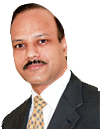
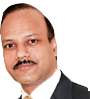
about block fix

diff --git a/css/style-landing-page.min.css b/css/style-landing-page.min.css
@@ -1,1 +1,1 @@
-header .logo{margin-top:15px}#landing-page{margin-top:20px}.jumbotron{position:relative;padding-left:100px;padding-right:100px;padding-top:150px;height:600px;background:#f0d30b;background:linear-gradient(to bottom,#f0d30b 0,#FFEDB2 51%,#f0d30b 100%);filter:progid:DXImageTransform.Microsoft.gradient( startColorstr='#f0d30b', endColorstr='#f0d30b', GradientType=0 )}.jumbotron h1{font-size:48px;font-weight:700;text-transform:capitalize}.jumbotron .banner-text ul{margin-top:24px}.jumbotron .banner-text ul li{font-size:22px;margin-bottom:3px}section{padding-left:15px;padding-right:15px;margin-bottom:60px}.about-section{margin-top:70px;padding:0 200px;text-align:left;margin-bottom:100px}.about-section h3{text-align:center;font-size:26px;font-weight:700;margin-bottom:10px}.about-section p{font-size:20px;line-height:1.5;-moz-text-align-last:center;text-align-last:center}.lp__lear-more{border-bottom:1px solid #e2e2e2}.lp__lear-more .active-tab{color:#d9d9d9}.lp__lear-more .carousel-yello{color:#ffb400}.lp__lear-more .tab-pane{padding-bottom:20px;padding-top:40px}.lp__lear-more ul.nav-tabs{text-align:center;margin-left:-15px;margin-right:-15px}.lp__lear-more ul.nav-tabs li{float:none;display:inline-block;width:30%}.lp__lear-more ul.nav-tabs li.active a{background:#f4f4f4;color:#000}.lp__lear-more ul.nav-tabs li a{background:#d9d9d9;color:#000;border-radius:10px 10px 0 0;padding:10px 15px;font-weight:700}.lp__lear-more .tab-content{background:#f4f4f4;padding:0 200px;margin-left:-15px;margin-right:-15px}.lp__lear-more .tab-content p{font-size:18px;line-height:1.4}.lp__lear-more .tab-content ul{margin-left:20px}.lp__lear-more_anchor{max-width:176px;display:block;position:relative;background:#fcfeff;background:linear-gradient(to bottom,#fcfeff 0,#eee 46%);filter:progid:DXImageTransform.Microsoft.gradient( startColorstr='#fcfeff', endColorstr='#eeeeee', GradientType=0 );border:1px solid #ccc;text-decoration:none;margin-bottom:16px;padding:6px}.lp__lear-more_anchor p.heading{font-family:'Passion One',cursive;color:#369;line-height:1;font-size:16px;font-size:30px;text-transform:uppercase}.lp__lear-more_anchor p.small{color:#565656;font-size:14px;line-height:1;max-width:100px}.lp__lear-more_anchor:hover{text-decoration:none}.lp__lear-more_anchor img{position:absolute;right:10px;bottom:10px;display:block;font-size:14px;width:40px;height:auto}.lp__testimonial{margin:0 auto 80px;padding:20px 200px}.lp__testimonial .lp__testimonial__block{padding:24px 0;border-bottom:2px solid #ededed}.lp__testimonial .lp__testimonial__block p{color:#979191}.lp__testimonial .lp__testimonial__block img{display:inline-block;margin-right:10px;position:relative;width:100px;height:auto}.lp__testimonial .lp__testimonial__block .msg{font-style:italic;line-height:1;font-size:16px;margin-top:24px}.lp__testimonial .lp__testimonial__block p.customer{font-size:14px}.lp__testimonial .lp__testimonial__block span.black{color:#000}.lp__testimonial .lp__testimonial__block span.fa{display:block;background:#ddd;width:38px;height:38px;position:absolute;right:0;bottom:0;padding:14px;font-size:12px;color:#fff}.lp__before-and-after{position:relative;text-align:center}.lp__before-and-after h3{margin-bottom:30px}.lp__before-and-after .inner{padding:40px 200px;border-top:1px solid #ddd;border-bottom:1px solid #ddd;margin-right:-15px;margin-left:-15px}.lp__before-and-after .btn-top{position:absolute;right:50%;top:-20px;left:42%;min-width:200px;border-radius:0}.lp__before-and-after .btn-div .btn{margin-bottom:-100px;border:6px solid #ededed;border-radius:4px}.lp__before-and-after ul li img{width:140px;height:auto}.lp__blog{padding:10px 200px}.lp__blog h4{color:#003e78;font-size:22px}.lp__blog ul li{padding-bottom:16px;border-bottom:1px solid #d1d1d1;margin-bottom:16px;max-width:94%}.lp__blog ul li a{color:#262626;font-size:16px;font-weight:700;text-decoration:underline}.lp__blog .dr-msg{background:#eef7ff;border:1px solid #0163be;padding:20px;position:relative;height:400px}.lp__blog .dr-msg .title{display:inline-block}.lp__blog .dr-msg .title h5{font-size:18px;font-weight:700;margin:0}.lp__blog .dr-msg .title h4{color:#000;font-weight:700}.lp__blog .dr-msg p{margin:8px 0 0;font-size:14px;line-height:1.5}.lp__blog .dr-msg img{width:62px;height:auto;display:inline-block;vertical-align:text-bottom;margin-right:10px}.lp__blog .m-b-30{margin-bottom:20px}.lp__faqs{background:#fefbf3;border-bottom:1px solid #c9c9c9;border-top:1px solid #c9c9c9;padding:50px 200px}.lp__faqs .lp__faqs_heading{position:relative;background:#fdc92b;border-radius:4px;padding:14px 20px;margin-bottom:50px}.lp__faqs .lp__faqs_heading p{margin-bottom:0;font-weight:700}.lp__faqs .lp__faqs_heading img{position:absolute;right:30px;top:-20px;width:80px;height:auto}.lp__faqs .panel-default>.panel-heading{background-color:#fff}.lp__faqs .panel-group .panel{margin-bottom:14px}.lp__faqs .panel-heading a{position:relative;display:inline-block;width:100%}.lp__faqs .panel-heading a:after{font-family:FontAwesome;content:"\f147";position:absolute;right:15px;font-size:14px;font-weight:300;top:50%;line-height:1;margin-top:-7px}.lp__faqs .panel-heading a.collapsed:after{content:"\f196"}.bold{font-weight:700}.lp__appointmetn-bottom .innner{padding:20px 40px;border:6px solid #ffbf87;border-radius:6px}.lp__appointmetn-bottom .innner .col-md-5,.lp__appointmetn-bottom .innner .col-md-7{padding-left:30px;padding-right:30px}.lp__appointmetn-bottom .innner .col-md-5{border-right:2px solid #ddd;padding-left:0;padding-right:10px}.lp__appointmetn-bottom .treatment-block{border:1px solid #ffbf87;border-radius:4px;padding:10px 20px;margin-bottom:10px}.lp__appointmetn-bottom .treatment-block h4{font-weight:700;margin-bottom:4px}.lp__appointmetn-bottom .treatment-block i{display:inline-block;font-size:36px;color:#ffbf87;margin-top:12px;float:right}.lp__appointmetn-bottom p.footer-text{margin-top:20px;color:#f70;padding:10px 15px}.lp__appointmetn-bottom p.footer-text i{margin-right:10px}.lp__appointmetn-bottom .orange{color:#ffbf87}#landing-form{position:absolute;top:-100px;left:25%;z-index:9999;max-width:500px;background:#fff;padding:6px 20px 20px;border:6px solid rgba(173,90,10,.8);border-radius:6px;margin-right:auto;margin-left:auto}#landing-form .gform_wrapper .gfield_required{color:#790000;margin-left:4px;display:none}#landing-form .gform_wrapper .gform_heading{width:98%;margin-bottom:0}#landing-form .gform_wrapper li.gfield.gfield_error,#landing-form .gform_wrapper li.gfield.gfield_error.gfield_contains_required.gfield_creditcard_warning{background-color:#fff;margin-bottom:.375em!important;padding:0;border-top:0 solid #C89797;border-bottom:0 solid #C89797}#landing-form .gform_wrapper .datepicker{width:100%!important}#landing-form .gform_wrapper div.validation_error{color:#790000;font-size:1em;font-weight:400;margin-bottom:0;border-top:0 solid #790000;border-bottom:0 solid #790000;padding:0;clear:both;width:97.5%}#landing-form .gform_wrapper .gform_footer input.button,#landing-form .gform_wrapper .gform_footer input[type=submit]{color:#fff;background-color:#fa8f3e;display:inline-block;padding:6px 12px;margin-bottom:0;font-size:14px;font-weight:400;line-height:1.42857143;text-align:center;white-space:nowrap;vertical-align:middle;-ms-touch-action:manipulation;touch-action:manipulation;cursor:pointer;-webkit-user-select:none;-moz-user-select:none;-ms-user-select:none;user-select:none;background-image:none;border:1px solid transparent;border-radius:4px}#landing-form .gform_wrapper .gfield_checkbox li,#landing-form .gform_wrapper .gfield_radio li{position:relative;margin:0}#landing-form .gform_wrapper h3.gform_title{letter-spacing:normal!important;margin:0 0 20px}#landing-form .gform_wrapper label.gfield_label+div.ginput_container{margin-top:0}#landing-form .gform_wrapper label{display:none!important;font-size:16px}#landing-form .gform_wrapper .gfield_checkbox label{display:block!important}#landing-form .ginput_container input{margin-bottom:12px;padding-top:10px;padding-left:6px}#landing-form .gform_wrapper .gform_footer{padding:0;margin:1em 0 0;clear:both}#landing-form .gform_wrapper li.gfield.gfield_error.gfield_contains_required div.gfield_description{max-width:100%;padding-right:6px!important;margin-top:-22px}#landing-form .gform_confirmation_message_1 .gform_confirmation_message{margin-bottom:10px}#landing-form h2{text-align:center;margin-bottom:20px}#landing-form .form-control{border-radius:0;margin-bottom:20px;height:40px}#landing-form .btn{margin-bottom:10px;text-transform:uppercase;padding:8px 12px;font-size:22px}#landing-form .form-group input,#landing-form input{width:100%}#landing-form ::-webkit-input-placeholder{color:#000;font-size:.9em}#landing-form :-moz-placeholder{color:#000;font-size:.9em;opacity:1}#landing-form ::-moz-placeholder{color:#000;font-size:.9em;opacity:1}#landing-form :-ms-input-placeholder{color:#000;font-size:.9em}#landing-form :placeholder-shown{color:#000;font-size:.9em}#landing-form .btn-sample,#landing-form .btn-sample.active,#landing-form .btn-sample:active,#landing-form .btn-sample:focus,#landing-form .btn-sample:hover{color:#fff;background-color:#fa8f3e;border-color:#793c1a}#landing-form-2{max-width:500px;padding:0 15px;background:#fff;margin-right:auto;margin-left:auto}#landing-form-2 .gform_wrapper .gfield_required{color:#790000;margin-left:4px;display:none}#landing-form-2 .gform_wrapper .gform_heading{width:98%;margin-bottom:0}#landing-form-2 .gform_wrapper li.gfield.gfield_error,#landing-form-2 .gform_wrapper li.gfield.gfield_error.gfield_contains_required.gfield_creditcard_warning{background-color:#fff;margin-bottom:.375em!important;padding:0;border-top:0 solid #C89797;border-bottom:0 solid #C89797}#landing-form-2 .gform_wrapper .datepicker{width:100%!important}#landing-form-2 .gform_wrapper div.validation_error{color:#790000;font-size:1em;font-weight:400;margin-bottom:0;border-top:0 solid #790000;border-bottom:0 solid #790000;padding:0;clear:both;width:97.5%}#landing-form-2 .gform_wrapper .gform_footer input.button,#landing-form-2 .gform_wrapper .gform_footer input[type=submit]{color:#fff;background-color:#fa8f3e;display:inline-block;padding:6px 12px;margin-bottom:0;font-size:14px;font-weight:400;line-height:1.42857143;text-align:center;white-space:nowrap;vertical-align:middle;-ms-touch-action:manipulation;touch-action:manipulation;cursor:pointer;-webkit-user-select:none;-moz-user-select:none;-ms-user-select:none;user-select:none;background-image:none;border:1px solid transparent;border-radius:4px}#landing-form-2 .gform_wrapper .gfield_checkbox li,#landing-form-2 .gform_wrapper .gfield_radio li{position:relative;margin:0}#landing-form-2 .gform_wrapper h3.gform_title{letter-spacing:normal!important;margin:0 0 20px}#landing-form-2 .gform_wrapper label.gfield_label+div.ginput_container{margin-top:0}#landing-form-2 .gform_wrapper label{display:none!important;font-size:18px}#landing-form-2 .gform_wrapper .gfield_checkbox label{display:block!important}#landing-form-2 .ginput_container input{margin-bottom:16px}#landing-form-2 .gform_wrapper .gform_footer{padding:0;margin:1em 0 0;clear:both}#landing-form-2 .gform_wrapper li.gfield.gfield_error.gfield_contains_required div.gfield_description{max-width:100%;padding-right:6px!important;margin-top:-22px}#landing-form-2 .gform_confirmation_message_1 .gform_confirmation_message{margin-bottom:10px}#landing-form-2 h2{text-align:center;margin-bottom:20px}#landing-form-2 .form-control{border-radius:0;margin-bottom:20px;height:40px}#landing-form-2 .btn{margin-bottom:10px;text-transform:uppercase;padding:8px 12px;font-size:22px}#demo .item,#demo-2 .item{margin:3px}#landing-form-2 .form-group input,#landing-form-2 input{width:100%}#demo .item img,#demo-2 .item img{width:100px;height:129px;display:block}#landing-form-2 ::-webkit-input-placeholder{color:#000;font-size:.9em}#landing-form-2 :-moz-placeholder{color:#000;font-size:.9em;opacity:1}#landing-form-2 ::-moz-placeholder{color:#000;font-size:.9em;opacity:1}#landing-form-2 :-ms-input-placeholder{color:#000;font-size:.9em}#landing-form-2 :placeholder-shown{color:#000;font-size:.9em}#landing-form-2 .btn-sample,#landing-form-2 .btn-sample.active,#landing-form-2 .btn-sample:active,#landing-form-2 .btn-sample:focus,#landing-form-2 .btn-sample:hover{color:#fff;background-color:#fa8f3e;border-color:#793c1a}#carousel-1{position:relative}.owl-carousel .owl-wrapper-outer{overflow:hidden;position:relative;width:100%;border:2px solid #FFB200;padding:12px;background:#fff;margin-bottom:30px;margin-top:30px}.carousel-1 .indicator-next,.carousel-1 .indicator-pre{display:block;cursor:pointer;width:45px;height:45px;position:absolute}.indicator-next{right:-11px;top:41%}.indicator-pre{left:-11px;top:41%}.btn-orange-top{color:#fff;background-color:#ffae00;border-color:#ffae00}.btn-orange-top.active,.btn-orange-top:active,.btn-orange-top:focus,.btn-orange-top:hover{color:#fff;background-color:#E69500;border-color:#E69500}.btn-orange-btm{color:#fff;background-color:#ea641f;border-color:#ea641f}.btn-orange-btm.active,.btn-orange-btm:active,.btn-orange-btm:focus,.btn-orange-btm:hover{color:#fff;background-color:#D14B06;border-color:#D14B06}.btn-orange-2{color:#fff;background-color:#a26565;border-color:#a26565}.btn-orange-2.active,.btn-orange-2:active,.btn-orange-2:focus,.btn-orange-2:hover{color:#fff;background-color:#894C4C;border-color:#894C4C}@media (max-width:767px){.lp__before-and-after .inner{padding:40px 100px}.lp__blog{padding:10px 100px}.lp__faqs{padding:50px 100px}.lp__lear-more .tab-content{padding:0 100px}.lp__appointmetn-bottom{padding:10px 100px}.lp__lear-more .tab-content ul{float:none}.lp__lear-more .tab-content ul li a{margin-right:6px;float:left}.lp__testimonial{padding:20px 100px}.about-section{padding:0 100px;margin-bottom:50px;margin-top:330px}section{margin-bottom:40px}.jumbotron{padding-left:50px;padding-right:50px;padding-top:36px}#landing-form{top:10px}}@media (min-width:768px) and (max-width:991px){.lp__before-and-after .inner{padding:40px 100px}.lp__blog{padding:10px 100px}.lp__faqs{padding:50px 100px}.lp__lear-more .tab-content{padding:0 100px}.lp__testimonial{padding:20px 100px}.lp__appointmetn-bottom{padding:10px 100px}.about-section{padding:0 100px;margin-bottom:50px}.jumbotron{position:relative;padding-left:50px;padding-right:50px;padding-top:100px}}@media (min-width:992px) and (max-width:1199px){.lp__testimonial{padding:20px 100px}.lp__appointmetn-bottom{padding:10px 100px}#landing-form{left:10%}}.visible-print{display:none!important}@media (min-width:1200px){.lp__appointmetn-bottom{padding:10px 200px}#landing-form{min-width:462px}.navbar-default .navbar-nav>li>a{padding:17px 21px}}@media (min-width:768px){.navbar-nav{float:right}}.navbar{margin-top:64px;width:94%}.navbar-collapse{padding-right:0;padding-left:0}.navbar-default .navbar-nav>li>a{font-size:16px;border-right:0;padding:17px 13px}.navbar-default{background:0 0;border:0;margin-left:auto}.navbar-default .navbar-nav>li:nth-child(1){border-left:0}header{padding-top:0}.m-b-40{margin-bottom:40px!important}
+header .logo{margin-top:15px}#landing-page{margin-top:20px}.jumbotron{position:relative;padding-left:100px;padding-right:100px;padding-top:150px;height:600px;background:#f0d30b;background:linear-gradient(to bottom,#f0d30b 0,#FFEDB2 51%,#f0d30b 100%);filter:progid:DXImageTransform.Microsoft.gradient( startColorstr='#f0d30b', endColorstr='#f0d30b', GradientType=0 )}.jumbotron h1{font-size:48px;font-weight:700;text-transform:capitalize}.jumbotron .banner-text ul{margin-top:24px}.jumbotron .banner-text ul li{font-size:22px;margin-bottom:3px}section{padding-left:15px;padding-right:15px;margin-bottom:60px}.about-section{margin-top:70px;padding:0 200px;text-align:left;margin-bottom:100px}.about-section h3{text-align:center;font-size:26px;font-weight:700;margin-bottom:10px}.about-section p{font-size:20px;line-height:1.5;-moz-text-align-last:center;text-align-last:center}.lp__lear-more{border-bottom:1px solid #e2e2e2}.lp__lear-more .active-tab{color:#d9d9d9}.lp__lear-more .carousel-yello{color:#ffb400}.lp__lear-more .tab-pane{padding-bottom:20px;padding-top:40px}.lp__lear-more ul.nav-tabs{text-align:center;margin-left:-15px;margin-right:-15px}.lp__lear-more ul.nav-tabs li{float:none;display:inline-block;width:30%}.lp__lear-more ul.nav-tabs li.active a{background:#f4f4f4;color:#000}.lp__lear-more ul.nav-tabs li a{background:#d9d9d9;color:#000;border-radius:10px 10px 0 0;padding:10px 15px;font-weight:700}.lp__lear-more .tab-content{background:#f4f4f4;padding:0 200px;margin-left:-15px;margin-right:-15px}.lp__lear-more .tab-content p{font-size:18px;line-height:1.4}.lp__lear-more .tab-content ul{margin-left:20px}.lp__lear-more_anchor{max-width:176px;display:block;position:relative;background:#fcfeff;background:linear-gradient(to bottom,#fcfeff 0,#eee 46%);filter:progid:DXImageTransform.Microsoft.gradient( startColorstr='#fcfeff', endColorstr='#eeeeee', GradientType=0 );border:1px solid #ccc;text-decoration:none;margin-bottom:16px;padding:6px}.lp__lear-more_anchor p.heading{font-family:'Passion One',cursive;color:#369;line-height:1;font-size:16px;font-size:30px;text-transform:uppercase}.lp__lear-more_anchor p.small{color:#565656;font-size:14px;line-height:1;max-width:100px}.lp__lear-more_anchor:hover{text-decoration:none}.lp__lear-more_anchor img{position:absolute;right:10px;bottom:10px;display:block;font-size:14px;width:40px;height:auto}.lp__testimonial{margin:0 auto 80px;padding:20px 200px}.lp__testimonial .lp__testimonial__block{padding:24px 0;border-bottom:2px solid #ededed}.lp__testimonial .lp__testimonial__block p{color:#979191}.lp__testimonial .lp__testimonial__block img{display:inline-block;margin-right:10px;position:relative;width:100px;height:auto}.lp__testimonial .lp__testimonial__block .msg{font-style:italic;line-height:1;font-size:16px;margin-top:24px}.lp__testimonial .lp__testimonial__block p.customer{font-size:14px}.lp__testimonial .lp__testimonial__block span.black{color:#000}.lp__testimonial .lp__testimonial__block span.fa{display:block;background:#ddd;width:38px;height:38px;position:absolute;right:0;bottom:0;padding:14px;font-size:12px;color:#fff}.lp__before-and-after{position:relative;text-align:center}.lp__before-and-after h3{margin-bottom:30px}.lp__before-and-after .inner{padding:40px 200px;border-top:1px solid #ddd;border-bottom:1px solid #ddd;margin-right:-15px;margin-left:-15px}.lp__before-and-after .btn-top{position:absolute;right:50%;top:-20px;left:42%;min-width:200px;border-radius:0}.lp__before-and-after .btn-div .btn{margin-bottom:-100px;border:6px solid #ededed;border-radius:4px}.lp__before-and-after ul li img{width:140px;height:auto}.lp__blog{padding:10px 200px}.lp__blog h4{color:#003e78;font-size:22px}.lp__blog ul li{padding-bottom:16px;border-bottom:1px solid #d1d1d1;margin-bottom:16px;max-width:94%}.lp__blog ul li a{color:#262626;font-size:16px;font-weight:700;text-decoration:underline}.lp__blog .dr-msg{background:#eef7ff;border:1px solid #0163be;padding:20px;position:relative;height:400px}.lp__blog .dr-msg .title{display:inline-block}.lp__blog .dr-msg .title h5{font-size:18px;font-weight:700;margin:0}.lp__blog .dr-msg .title h4{color:#000;font-weight:700}.lp__blog .dr-msg p{margin:8px 0 0;font-size:14px;line-height:1.5}.lp__blog .dr-msg img{width:90px;height:auto;display:inline-block;vertical-align:text-bottom;margin-right:10px}.lp__blog .m-b-30{margin-bottom:20px}.lp__faqs{background:#fefbf3;border-bottom:1px solid #c9c9c9;border-top:1px solid #c9c9c9;padding:50px 200px}.lp__faqs .lp__faqs_heading{position:relative;background:#fdc92b;border-radius:4px;padding:14px 20px;margin-bottom:50px}.lp__faqs .lp__faqs_heading p{margin-bottom:0;font-weight:700}.lp__faqs .lp__faqs_heading img{position:absolute;right:30px;top:-20px;width:80px;height:auto}.lp__faqs .panel-default>.panel-heading{background-color:#fff}.lp__faqs .panel-group .panel{margin-bottom:14px}.lp__faqs .panel-heading a{position:relative;display:inline-block;width:100%}.lp__faqs .panel-heading a:after{font-family:FontAwesome;content:"\f147";position:absolute;right:15px;font-size:14px;font-weight:300;top:50%;line-height:1;margin-top:-7px}.lp__faqs .panel-heading a.collapsed:after{content:"\f196"}.bold{font-weight:700}.lp__appointmetn-bottom .innner{padding:20px 40px;border:6px solid #ffbf87;border-radius:6px}.lp__appointmetn-bottom .innner .col-md-5,.lp__appointmetn-bottom .innner .col-md-7{padding-left:30px;padding-right:30px}.lp__appointmetn-bottom .innner .col-md-5{border-right:2px solid #ddd;padding-left:0;padding-right:10px}.lp__appointmetn-bottom .treatment-block{border:1px solid #ffbf87;border-radius:4px;padding:10px 20px;margin-bottom:10px}.lp__appointmetn-bottom .treatment-block h4{font-weight:700;margin-bottom:4px}.lp__appointmetn-bottom .treatment-block i{display:inline-block;font-size:36px;color:#ffbf87;margin-top:12px;float:right}.lp__appointmetn-bottom p.footer-text{margin-top:20px;color:#f70;padding:10px 15px}.lp__appointmetn-bottom p.footer-text i{margin-right:10px}.lp__appointmetn-bottom .orange{color:#ffbf87}#landing-form{position:absolute;top:-100px;left:25%;z-index:9999;max-width:500px;background:#fff;padding:6px 20px 20px;border:6px solid rgba(173,90,10,.8);border-radius:6px;margin-right:auto;margin-left:auto}#landing-form .gform_wrapper .gfield_required{color:#790000;margin-left:4px;display:none}#landing-form .gform_wrapper .gform_heading{width:98%;margin-bottom:0}#landing-form .gform_wrapper li.gfield.gfield_error,#landing-form .gform_wrapper li.gfield.gfield_error.gfield_contains_required.gfield_creditcard_warning{background-color:#fff;margin-bottom:.375em!important;padding:0;border-top:0 solid #C89797;border-bottom:0 solid #C89797}#landing-form .gform_wrapper .datepicker{width:100%!important}#landing-form .gform_wrapper div.validation_error{color:#790000;font-size:1em;font-weight:400;margin-bottom:0;border-top:0 solid #790000;border-bottom:0 solid #790000;padding:0;clear:both;width:97.5%}#landing-form .gform_wrapper .gform_footer input.button,#landing-form .gform_wrapper .gform_footer input[type=submit]{color:#fff;background-color:#fa8f3e;display:inline-block;padding:6px 12px;margin-bottom:0;font-size:14px;font-weight:400;line-height:1.42857143;text-align:center;white-space:nowrap;vertical-align:middle;-ms-touch-action:manipulation;touch-action:manipulation;cursor:pointer;-webkit-user-select:none;-moz-user-select:none;-ms-user-select:none;user-select:none;background-image:none;border:1px solid transparent;border-radius:4px}#landing-form .gform_wrapper .gfield_checkbox li,#landing-form .gform_wrapper .gfield_radio li{position:relative;margin:0}#landing-form .gform_wrapper h3.gform_title{letter-spacing:normal!important;margin:0 0 20px}#landing-form .gform_wrapper label.gfield_label+div.ginput_container{margin-top:0}#landing-form .gform_wrapper label{display:none!important;font-size:16px}#landing-form .gform_wrapper .gfield_checkbox label{display:block!important}#landing-form .ginput_container input{margin-bottom:12px;padding-top:10px;padding-left:6px}#landing-form .gform_wrapper .gform_footer{padding:0;margin:1em 0 0;clear:both}#landing-form .gform_wrapper li.gfield.gfield_error.gfield_contains_required div.gfield_description{max-width:100%;padding-right:6px!important;margin-top:-22px}#landing-form .gform_confirmation_message_1 .gform_confirmation_message{margin-bottom:10px}#landing-form h2{text-align:center;margin-bottom:20px}#landing-form .form-control{border-radius:0;margin-bottom:20px;height:40px}#landing-form .btn{margin-bottom:10px;text-transform:uppercase;padding:8px 12px;font-size:22px}#landing-form .form-group input,#landing-form input{width:100%}#landing-form ::-webkit-input-placeholder{color:#000;font-size:.9em}#landing-form :-moz-placeholder{color:#000;font-size:.9em;opacity:1}#landing-form ::-moz-placeholder{color:#000;font-size:.9em;opacity:1}#landing-form :-ms-input-placeholder{color:#000;font-size:.9em}#landing-form :placeholder-shown{color:#000;font-size:.9em}#landing-form .btn-sample,#landing-form .btn-sample.active,#landing-form .btn-sample:active,#landing-form .btn-sample:focus,#landing-form .btn-sample:hover{color:#fff;background-color:#fa8f3e;border-color:#793c1a}#landing-form-2{max-width:500px;padding:0 15px;background:#fff;margin-right:auto;margin-left:auto}#landing-form-2 .gform_wrapper .gfield_required{color:#790000;margin-left:4px;display:none}#landing-form-2 .gform_wrapper .gform_heading{width:98%;margin-bottom:0}#landing-form-2 .gform_wrapper li.gfield.gfield_error,#landing-form-2 .gform_wrapper li.gfield.gfield_error.gfield_contains_required.gfield_creditcard_warning{background-color:#fff;margin-bottom:.375em!important;padding:0;border-top:0 solid #C89797;border-bottom:0 solid #C89797}#landing-form-2 .gform_wrapper .datepicker{width:100%!important}#landing-form-2 .gform_wrapper div.validation_error{color:#790000;font-size:1em;font-weight:400;margin-bottom:0;border-top:0 solid #790000;border-bottom:0 solid #790000;padding:0;clear:both;width:97.5%}#landing-form-2 .gform_wrapper .gform_footer input.button,#landing-form-2 .gform_wrapper .gform_footer input[type=submit]{color:#fff;background-color:#fa8f3e;display:inline-block;padding:6px 12px;margin-bottom:0;font-size:14px;font-weight:400;line-height:1.42857143;text-align:center;white-space:nowrap;vertical-align:middle;-ms-touch-action:manipulation;touch-action:manipulation;cursor:pointer;-webkit-user-select:none;-moz-user-select:none;-ms-user-select:none;user-select:none;background-image:none;border:1px solid transparent;border-radius:4px}#landing-form-2 .gform_wrapper .gfield_checkbox li,#landing-form-2 .gform_wrapper .gfield_radio li{position:relative;margin:0}#landing-form-2 .gform_wrapper h3.gform_title{letter-spacing:normal!important;margin:0 0 20px}#landing-form-2 .gform_wrapper label.gfield_label+div.ginput_container{margin-top:0}#landing-form-2 .gform_wrapper label{display:none!important;font-size:18px}#landing-form-2 .gform_wrapper .gfield_checkbox label{display:block!important}#landing-form-2 .ginput_container input{margin-bottom:16px}#landing-form-2 .gform_wrapper .gform_footer{padding:0;margin:1em 0 0;clear:both}#landing-form-2 .gform_wrapper li.gfield.gfield_error.gfield_contains_required div.gfield_description{max-width:100%;padding-right:6px!important;margin-top:-22px}#landing-form-2 .gform_confirmation_message_1 .gform_confirmation_message{margin-bottom:10px}#landing-form-2 h2{text-align:center;margin-bottom:20px}#landing-form-2 .form-control{border-radius:0;margin-bottom:20px;height:40px}#landing-form-2 .btn{margin-bottom:10px;text-transform:uppercase;padding:8px 12px;font-size:22px}#demo .item,#demo-2 .item{margin:3px}#landing-form-2 .form-group input,#landing-form-2 input{width:100%}#demo .item img,#demo-2 .item img{width:100px;height:129px;display:block}#landing-form-2 ::-webkit-input-placeholder{color:#000;font-size:.9em}#landing-form-2 :-moz-placeholder{color:#000;font-size:.9em;opacity:1}#landing-form-2 ::-moz-placeholder{color:#000;font-size:.9em;opacity:1}#landing-form-2 :-ms-input-placeholder{color:#000;font-size:.9em}#landing-form-2 :placeholder-shown{color:#000;font-size:.9em}#landing-form-2 .btn-sample,#landing-form-2 .btn-sample.active,#landing-form-2 .btn-sample:active,#landing-form-2 .btn-sample:focus,#landing-form-2 .btn-sample:hover{color:#fff;background-color:#fa8f3e;border-color:#793c1a}#carousel-1{position:relative}.owl-carousel .owl-wrapper-outer{overflow:hidden;position:relative;width:100%;border:2px solid #FFB200;padding:12px;background:#fff;margin-bottom:30px;margin-top:30px}.carousel-1 .indicator-next,.carousel-1 .indicator-pre{display:block;cursor:pointer;width:45px;height:45px;position:absolute}.indicator-next{right:-11px;top:41%}.indicator-pre{left:-11px;top:41%}.btn-orange-top{color:#fff;background-color:#ffae00;border-color:#ffae00}.btn-orange-top.active,.btn-orange-top:active,.btn-orange-top:focus,.btn-orange-top:hover{color:#fff;background-color:#E69500;border-color:#E69500}.btn-orange-btm{color:#fff;background-color:#ea641f;border-color:#ea641f}.btn-orange-btm.active,.btn-orange-btm:active,.btn-orange-btm:focus,.btn-orange-btm:hover{color:#fff;background-color:#D14B06;border-color:#D14B06}.btn-orange-2{color:#fff;background-color:#a26565;border-color:#a26565}.btn-orange-2.active,.btn-orange-2:active,.btn-orange-2:focus,.btn-orange-2:hover{color:#fff;background-color:#894C4C;border-color:#894C4C}@media (max-width:767px){.lp__before-and-after .inner{padding:40px 100px}.lp__blog{padding:10px 100px}.lp__faqs{padding:50px 100px}.lp__lear-more .tab-content{padding:0 100px}.lp__appointmetn-bottom{padding:10px 100px}.lp__lear-more .tab-content ul{float:none}.lp__lear-more .tab-content ul li a{margin-right:6px;float:left}.lp__testimonial{padding:20px 100px}.about-section{padding:0 100px;margin-bottom:50px;margin-top:330px}section{margin-bottom:40px}.jumbotron{padding-left:50px;padding-right:50px;padding-top:36px}#landing-form{top:10px}}@media (min-width:768px) and (max-width:991px){.lp__before-and-after .inner{padding:40px 100px}.lp__blog{padding:10px 100px}.lp__faqs{padding:50px 100px}.lp__lear-more .tab-content{padding:0 100px}.lp__testimonial{padding:20px 100px}.lp__appointmetn-bottom{padding:10px 100px}.about-section{padding:0 100px;margin-bottom:50px}.jumbotron{position:relative;padding-left:50px;padding-right:50px;padding-top:100px}}@media (min-width:992px) and (max-width:1199px){.lp__testimonial{padding:20px 100px}.lp__appointmetn-bottom{padding:10px 100px}#landing-form{left:10%}}.visible-print{display:none!important}@media (min-width:1200px){.lp__appointmetn-bottom{padding:10px 200px}#landing-form{min-width:462px}.navbar-default .navbar-nav>li>a{padding:17px 21px}}@media (min-width:768px){.navbar-nav{float:right}}.navbar{margin-top:64px;width:94%}.navbar-collapse{padding-right:0;padding-left:0}.navbar-default .navbar-nav>li>a{font-size:16px;border-right:0;padding:17px 13px}.navbar-default{background:0 0;border:0;margin-left:auto}.navbar-default .navbar-nav>li:nth-child(1){border-left:0}header{padding-top:0}.m-b-40{margin-bottom:40px!important}

diff --git a/css/style-landing-page.css b/css/style-landing-page.css
@@ -283,7 +283,7 @@ section {
   line-height: 1.5;
 }
 .lp__blog .dr-msg img {
-  width: 62px;
+  width: 90px;
   height: auto;
   display: inline-block;
   vertical-align: text-bottom;

diff --git a/page-landing-page.php b/page-landing-page.php
@@ -356,11 +356,11 @@ and anemia. </p>
                             </div>
                             <div class="col-sm-6">
                                 <div class="dr-msg clearfix">
-                                    <img src="<?php echo  theme_root . '/'; ?>images/dr.png">
+                                    <img src="<?php echo  theme_root . '/'; ?>images/dr-2.png">
                                     <div class="title">
                                         <h4>About Dr GVG</h4>
                                         <h5>DR GUNASEKAR VUPPALAPATI</h4>
-                                        <h5><small>MBBS, MS, FRCS, MCh (Plastic Surgeon)</small></h5>
+                                        <h5>MBBS, MS, FRCS, MCh (Plastic Surgeon)</h5>
                                     </div>
                                     <p>Dr GV is the founder of DrGVG aesthetic center, with a magnificent knowledge and experience of 13 years in cosmetic, plastic and reconstructive surgery, doing wonders in cosmetic world. He has been trained at premier & world renowned plastic surgery institutions in India and abroad that includes Stanley Hospital, Chennai; Royal Preston Hospital, UK; Bichat hospital, Paris; East Grinstead, UK, to name a few. With a special interest in breast reconstruction surgery, hand surgery and high definition body sculpting surgery for a perfect fat less body he has presented many papers in different plastic surgery conference.</p>
 
